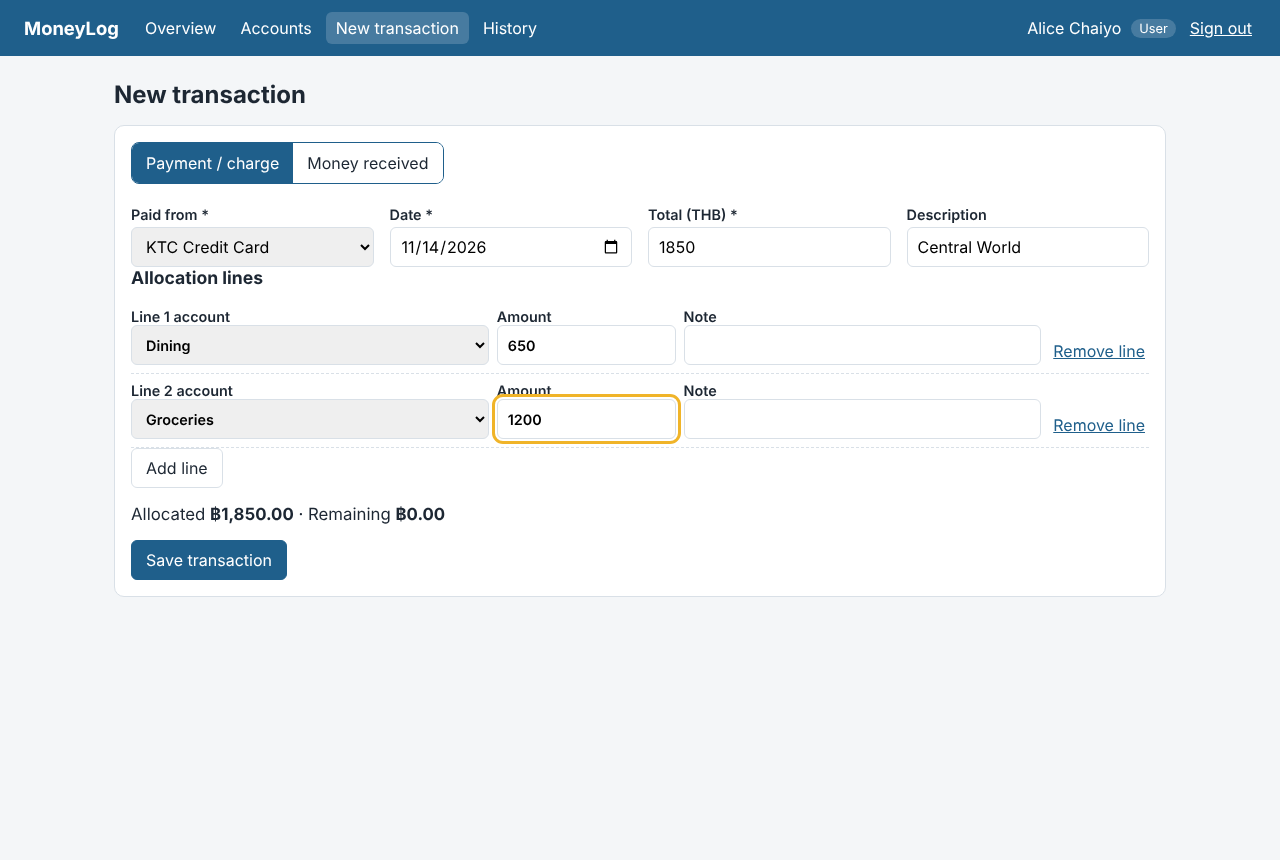
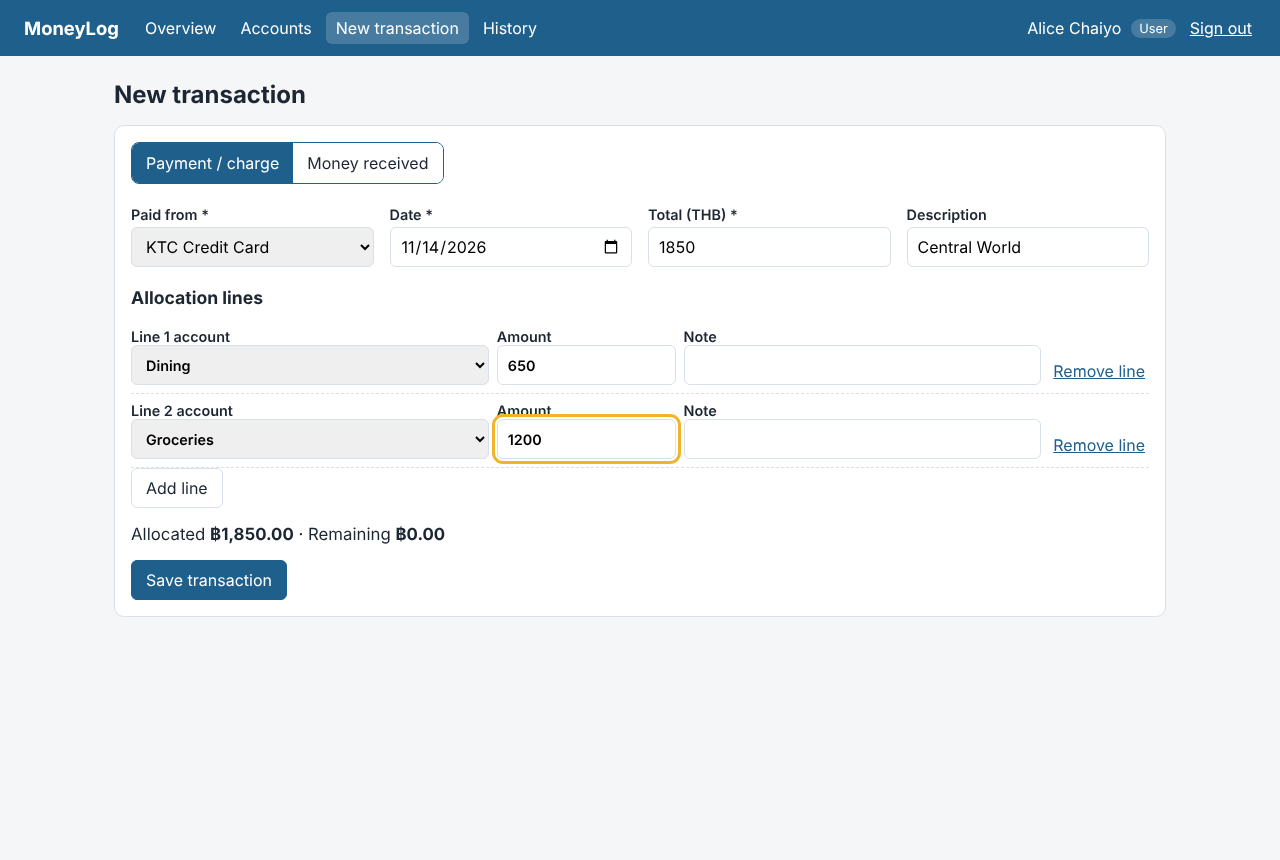
docs: Sprint 1 test results, AC-to-test table, TDD evidence index, contributions and AI use (#7)

diff --git a/docs/sprints/sprint-1/test-results.md b/docs/sprints/sprint-1/test-results.md
@@ -1,0 +1,92 @@
+# Sprint 1 — Test Results
+
+Commands, commit and raw output: `evidence/release-run.txt` (written by `scripts/verify-release.sh`).
+
+| Suite | Command | Files | Passed | Failed | Skipped |
+|---|---|---|---|---|---|
+| Server unit + API/DB | `npm test --prefix server` | 14 | 97 | 0 | 0 |
+| Client component | `npm test --prefix client` | 5 | 6 | 0 | 0 |
+| End-to-end (Chromium, 1280 px) | `npx playwright test` | 3 | 4 | 0 | 0 |
+| **Total** | | 22 | **107** | **0** | **0** |
+
+Builds: `npm run build --prefix server` (tsc) and `npm run build --prefix client` (tsc + vite) succeed.
+
+## AC → planned test → actual test → result
+
+A = automated. No AC relies on a manual check alone.
+
+| AC | Planned | Actual file › test | Result |
+|---|---|---|---|
+| AC-01 | TEST-01 | server/tests/api/auth.api.test.ts › TEST-01 signs in with valid credentials… | Pass (A) |
+| AC-02 | TEST-02, TEST-09 | auth.api.test.ts › TEST-02 one identical 401…; e2e/access.spec.ts › TEST-09 disabled user cannot sign in | Pass (A) |
+| AC-03 | TEST-03 | auth.api.test.ts › TEST-03 rejects a missing e-mail or password | Pass (A) |
+| AC-04 | TEST-04 | auth.api.test.ts › TEST-04 returns the caller's own identity | Pass (A) |
+| AC-05 | TEST-05, TEST-11 | auth.api.test.ts › TEST-05 sign-out deletes the session; journey.spec.ts (sign-out → /api/auth/me 401) | Pass (A) |
+| AC-06 | TEST-06 | unit/session.test.ts › TEST-06 …; auth.api.test.ts › TEST-06 refuses an expired session | Pass (A) |
+| AC-07 | TEST-07, TEST-08 | unit/password.test.ts › TEST-07; auth.api.test.ts › TEST-08 | Pass (A) |
+| AC-08 | TEST-09, TEST-10, TEST-50, TEST-52 | client/tests/Login.test.tsx › TEST-10; e2e journey/access specs | Pass (A) |
+| AC-09 | TEST-11 | api/access.api.test.ts › TEST-11 (10 routes) | Pass (A) |
+| AC-10 | TEST-12, TEST-52 | access.api.test.ts › TEST-12 (6 financial routes); e2e/access.spec.ts › TEST-52 | Pass (A) |
+| AC-11 | TEST-13 | access.api.test.ts › TEST-13 (2 admin routes) | Pass (A) |
+| AC-12 | TEST-14 | access.api.test.ts › TEST-14 cross-site writes are refused | Pass (A) |
+| AC-13 | TEST-15 | unit/http-error.test.ts › TEST-15 | Pass (A) |
+| AC-14 | TEST-16 | api/accounts.api.test.ts › TEST-16 | Pass (A) |
+| AC-15 | TEST-17 | unit/balances.test.ts › TEST-17 (9 cases) | Pass (A) |
+| AC-16 | TEST-18, TEST-19 | unit/money.test.ts › TEST-18; balances.test.ts › TEST-19 | Pass (A) |
+| AC-17 | TEST-20 | client/tests/Accounts.test.tsx › TEST-20 | Pass (A) |
+| AC-18 | TEST-21 | accounts.api.test.ts › TEST-21 | Pass (A) |
+| AC-19 | TEST-22 | accounts.api.test.ts › TEST-22 | Pass (A) |
+| AC-20 | TEST-23 | accounts.api.test.ts › TEST-23 | Pass (A) |
+| AC-21 | TEST-24, TEST-50 | api/transactions.api.test.ts › TEST-24; e2e/journey.spec.ts › TEST-50 | Pass (A) |
+| AC-22 | TEST-25, TEST-50 | transactions.api.test.ts › TEST-25; TEST-50 | Pass (A) |
+| AC-23 | TEST-26, TEST-50 | transactions.api.test.ts › TEST-26; TEST-50 | Pass (A) |
+| AC-24 | TEST-27, TEST-50 | transactions.api.test.ts › TEST-27; TEST-50 | Pass (A) |
+| AC-25 | TEST-28, TEST-29, TEST-51 | unit/transaction-rules.test.ts › TEST-28; transactions.api.test.ts › TEST-29; e2e/rules.spec.ts › TEST-51 | Pass (A) |
+| AC-26 | TEST-30, TEST-31 | transaction-rules.test.ts › TEST-30 (6 cases); transactions.api.test.ts › TEST-31 | Pass (A) |
+| AC-27 | TEST-32 | transaction-rules.test.ts › TEST-32 | Pass (A) |
+| AC-28 | TEST-33, TEST-34 | unit/transaction-input.test.ts › TEST-33 (17 cases); transactions.api.test.ts › TEST-34 | Pass (A) |
+| AC-29 | TEST-35 | transactions.api.test.ts › TEST-35 | Pass (A) |
+| AC-30 | TEST-36 | transactions.api.test.ts › TEST-36 | Pass (A) |
+| AC-31 | TEST-37, TEST-51 | client/tests/NewTransaction.test.tsx › TEST-37; TEST-51 | Pass (A) |
+| AC-32 | TEST-38 | transactions.api.test.ts › TEST-38 | Pass (A) |
+| AC-33 | TEST-39 | transactions.api.test.ts › TEST-39 | Pass (A) |
+| AC-34 | TEST-40 | client/tests/History.test.tsx › TEST-40 (2 cases) | Pass (A) |
+| AC-35 | TEST-41, TEST-42, TEST-50 | unit/summary.test.ts › TEST-41; api/summary.api.test.ts › TEST-42; TEST-50 | Pass (A) |
+| AC-36 | TEST-43 | summary.test.ts › TEST-43 (unit part); summary.api.test.ts › TEST-43 | Pass (A) |
+| AC-37 | TEST-44 | summary.api.test.ts › TEST-44 | Pass (A) |
+| AC-38 | TEST-45 | api/admin.api.test.ts › TEST-45 | Pass (A) |
+| AC-39 | TEST-46 | admin.api.test.ts › TEST-46 | Pass (A) |
+| AC-40 | TEST-47 | admin.api.test.ts › TEST-47 | Pass (A) |
+| AC-41 | TEST-48 | admin.api.test.ts › TEST-48 | Pass (A) |
+| AC-42 | TEST-49 | client/tests/AdminUsers.test.tsx › TEST-49 | Pass (A) |
+
+Supplementary manual check: stop the API, start it again, reload the Overview — the
+figures are unchanged (NFR-08, local). The E2E journey also reloads the page and re-reads the data.
+
+## TDD evidence
+
+| Rule | Red (test commit → output) | Green (implementation commit → output) |
+|---|---|---|
+| Transaction rules BR-01/03/04/05 (TEST-28/30/32) | skeleton commit "TDD red - transaction rules skeleton": 9 assertion failures, e.g. `expected undefined to be 'ALLOCATION_MISMATCH'` — `evidence/tdd-transactions-red.txt` | "record payment/receipt with allocation rules…": all pass — `evidence/tdd-transactions-green.txt` |
+| Summary BR-08 (TEST-41/43) | "summary skeleton for TDD red": 3 assertion failures (`expected +0 to be 3400000`) — `evidence/tdd-summary-red.txt` | "financial summary and admin…" — `evidence/tdd-summary-green.txt` |
+| Balance engine BR-07 (TEST-17/19) | test commit before `balances.ts` existed: suite fails to load, API tests 404 — `evidence/tdd-balances-red.txt` | "balance engine, accounts list…" — `evidence/tdd-balances-green.txt` |
+| Auth (TEST-01..08) | test commit before `session.ts` existed — `evidence/tdd-auth-red.txt` | "sign-in, sign-out…" — `evidence/tdd-auth-green.txt` |
+
+## Test revisions (visible, justified)
+
+- TEST-05: removed the `GET /api/accounts` check from the auth branch, because that route arrives in #4.
+  AC-05's account-route check is covered by TEST-11 (all protected routes, including `/api/accounts`).
+- TEST-26: the expense-unchanged check depended on `/api/summary`, so it was conditional in #5. It became
+  unconditional in #6 when the summary existed.
+- E2E specs: nav links were scoped to the navigation bar because "New transaction" appears twice on a page.
+  The journey now clicks "Payment / charge" after a receipt. These were selector fixes, not weakened assertions.
+
+## Known limitations and incomplete work
+
+- UI component tests (TEST-10/20/37/40/49) were written alongside the UI, not test-first. TDD was applied
+  to the domain rules.
+- `parseThb`/`formatThb` (`money.ts`) were written in the scaffold commit before TEST-18, so TEST-18 has no
+  red step.
+- E2E runs at one viewport (1280 px). The 390/834 px checks are planned in Sprint 3 (NFR-11).
+- No sign-in rate limiting yet (NFR-12, Sprint 3). No Docker/CI/GCP yet (Lab 5).
+- Accounts are seeded. Users cannot create accounts until Sprint 2 (F-09).

diff --git a/docs/sprints/sprint-1/team-and-ai.md b/docs/sprints/sprint-1/team-and-ai.md
@@ -1,0 +1,22 @@
+# Sprint 1 — Contributions and AI use
+
+## Contribution table
+
+> Fill in truthfully before submitting. Both students must be able to explain a sampled
+> requirement, test, design decision or release step.
+
+| Area | Tammathorn (@Tammathorn) | Chakriwat (@GusGusxz) |
+|---|---|---|
+| Theme choice, SRS decisions D-01 – D-11 | Drove the theme decision and the decisions with the AI agent | _to fill: e.g. reviewed and challenged D-04 / D-05_ |
+| Baseline docs and Sprint 1 contracts (#1) | Author (AI-assisted) | Reviewer of PR #1 |
+| Data model, auth, accounts, transactions, summary/admin (#2 – #6) | Author (AI-assisted) | Reviewer of PRs #2 – #6 |
+| UI and E2E (#7) | Author (AI-assisted) | Reviewer of PR #7 |
+| Integration and release PR to `main` | Opened the release PR | _to fill: ran the suites on staging, approved the release_ |
+
+## AI-use declaration
+
+| Tool | Used for | How the output was checked |
+|---|---|---|
+| Claude (Anthropic) agent | Drafted the SRS, SDS, contracts and STS from the stakeholder brief. Generated the server, client and test code per Issue. Ran the test suites and captured the output. | Each test was run and its output saved under `evidence/`. TDD red/green outputs are tied to commits. The teammate reviews every PR before it merges. The team read the contracts and diffs. |
+
+No real personal data, secrets or passwords were given to the AI tool. All data is synthetic.

diff --git a/docs/sprints/sprint-1/workflow.md b/docs/sprints/sprint-1/workflow.md
@@ -1,0 +1,17 @@
+# Sprint 1 — Issues, branches, PRs and reviews
+
+> Filled from GitHub after each PR is reviewed and merged. Do not invent review text. Record
+> what the reviewer actually wrote.
+
+| Issue | Feature / contract | Branch | PR → base | Author | Reviewer | Review (specific check / finding) | Merged |
+|---|---|---|---|---|---|---|---|
+| #1 | All (docs) | `feature/1-baseline-contracts` | → `sprint-1-staging` | @Tammathorn | @GusGusxz | | |
+| #2 | F-03/F-08 data | `feature/2-data-model` | → `sprint-1-staging` | @Tammathorn | @GusGusxz | | |
+| #3 | F-01, F-02 | `feature/3-auth` | → `sprint-1-staging` | @Tammathorn | @GusGusxz | | |
+| #4 | F-03, F-04 | `feature/4-accounts` | → `sprint-1-staging` | @Tammathorn | @GusGusxz | | |
+| #5 | F-05, F-06 | `feature/5-transactions` | → `sprint-1-staging` | @Tammathorn | @GusGusxz | | |
+| #6 | F-07, F-08 | `feature/6-summary-admin` | → `sprint-1-staging` | @Tammathorn | @GusGusxz | | |
+| #7 | UI, E2E | `feature/7-ui-e2e` | → `sprint-1-staging` | @Tammathorn | @GusGusxz | | |
+| — | Release v0.1.0 | `sprint-1-staging` | → `main` | @Tammathorn | @GusGusxz | | |
+
+Release tag: `v0.1.0` → commit _(fill after merge)_.
